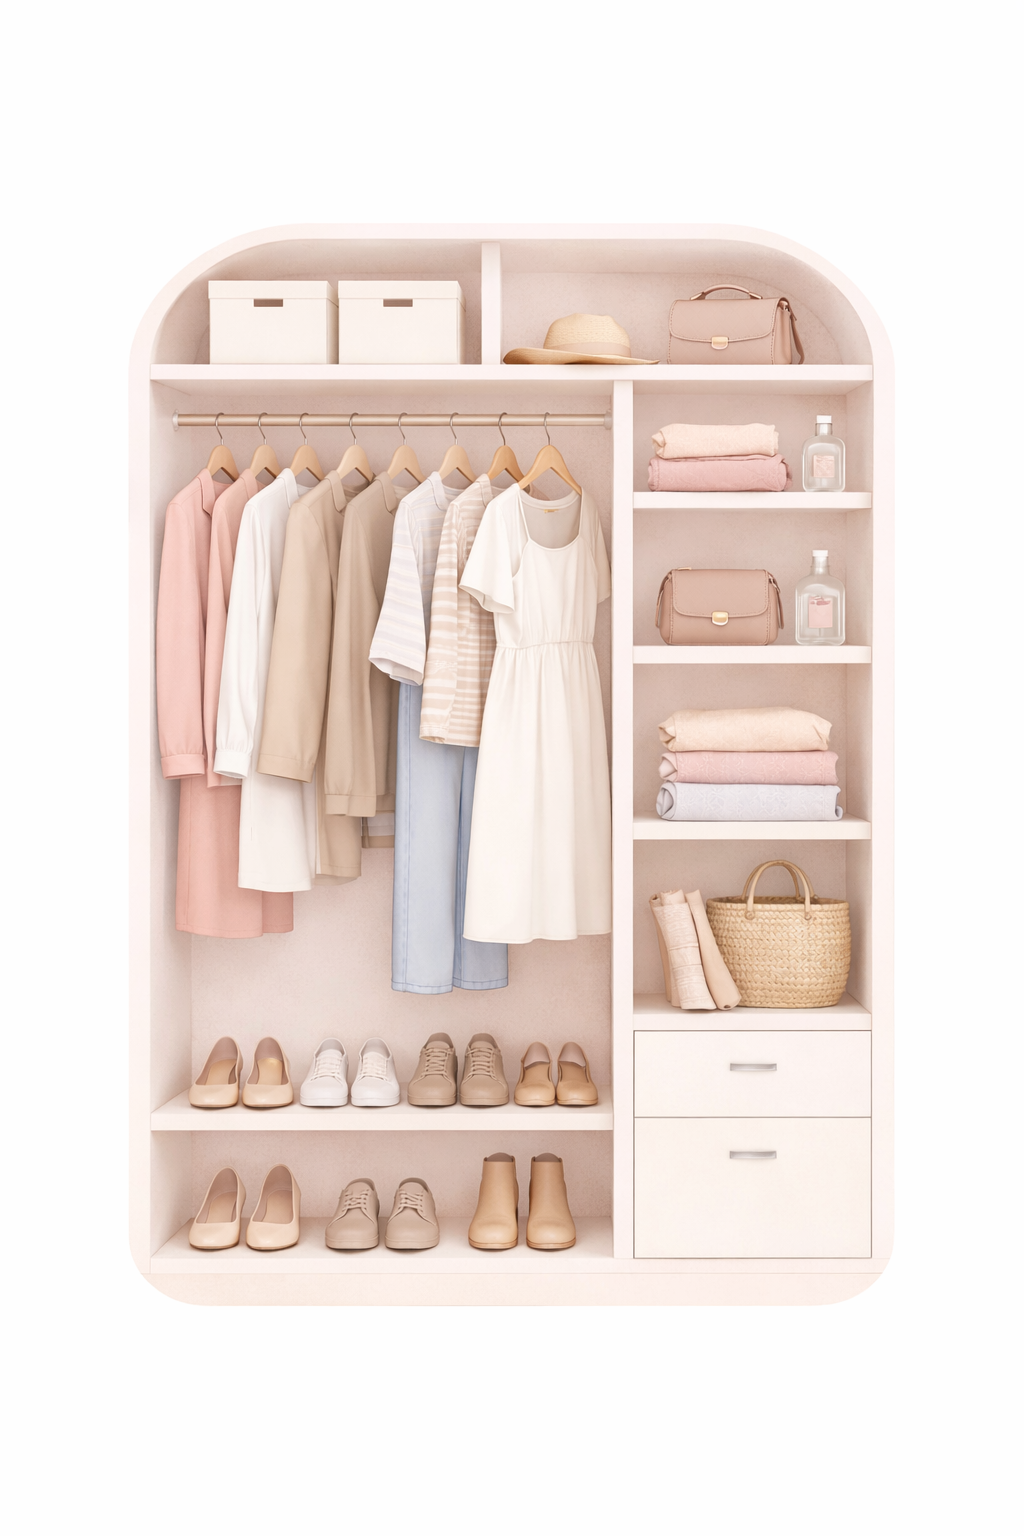
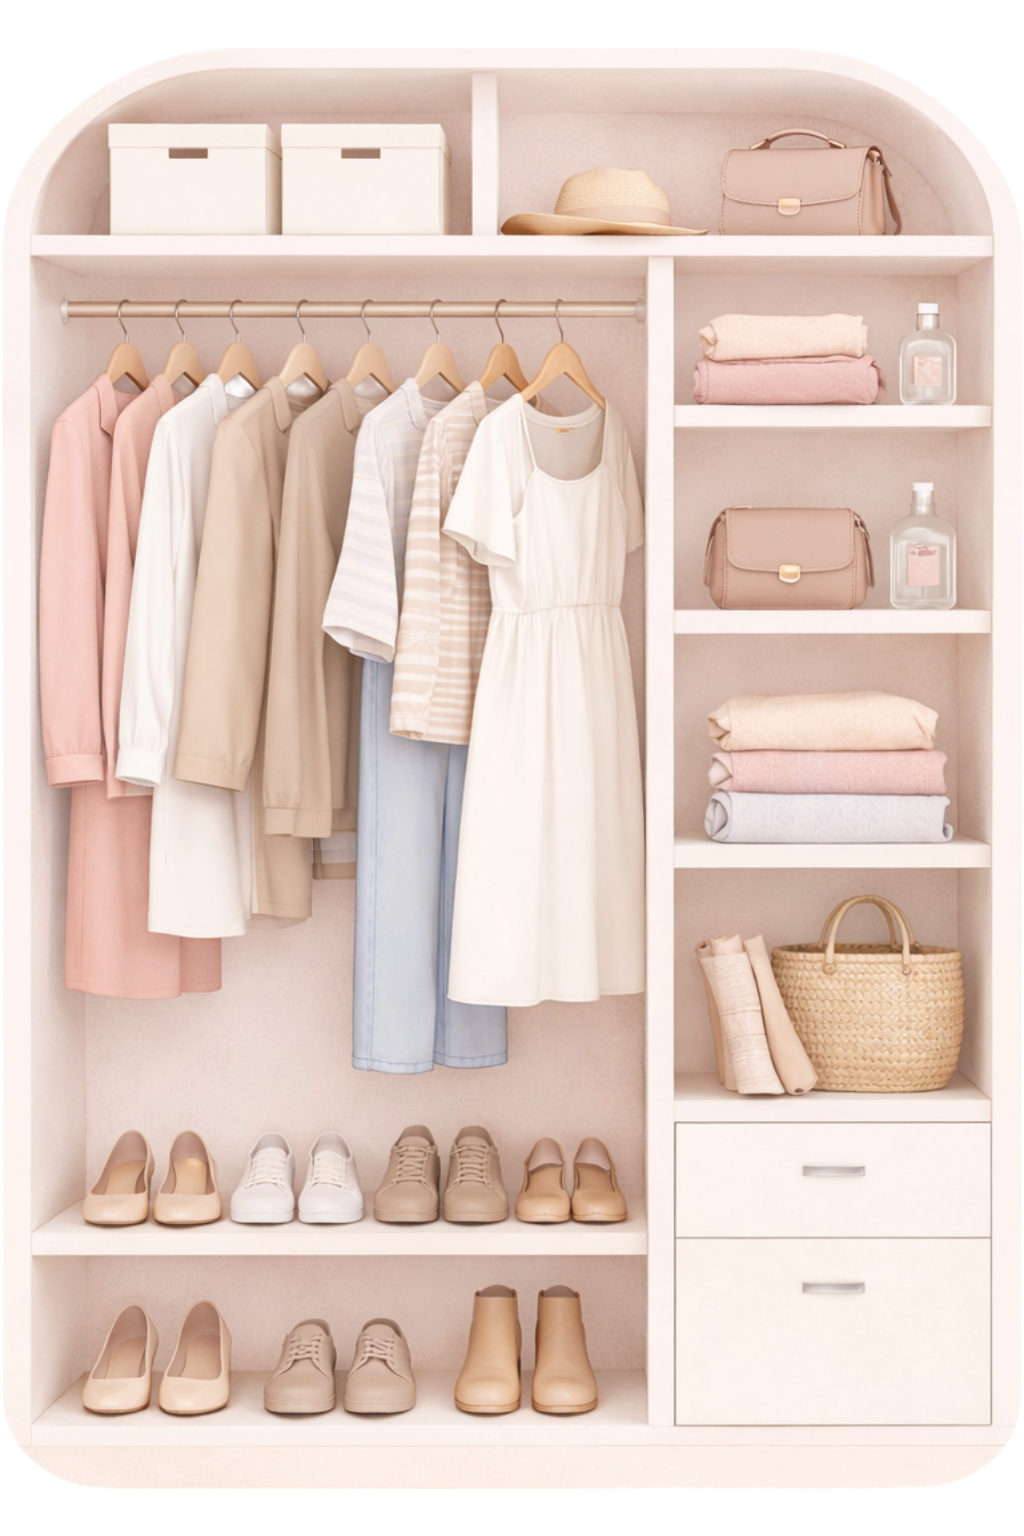
Finish onboarding page

diff --git a/frontend/DigitalWardrobe/app/landing.web.tsx b/frontend/DigitalWardrobe/app/landing.web.tsx
@@ -1,35 +1,48 @@
-import { Text, View, StyleSheet } from 'react-native';
+import { Text, View, StyleSheet, Image, ScrollView } from 'react-native';
 import { Link } from 'expo-router';
 import NavBar from "../components/features/navbar";
 import OmbreBackground from "../components/features/ombrebackground";
 import GridOverlay from "../components/features/gridoverlay";
 import closetImage from '../assets/images/closet_graphic.png';
+import Button from "../components/ui/button";
+import { useRouter } from "expo-router";
 
 const API_URL = process.env.EXPO_PUBLIC_API_URL ?? '';
 
+
 export default function LandingScreen() {
+
+	const router = useRouter();
 	return (
 		<View style={styles.container}>
 			<OmbreBackground />
 			<GridOverlay />
 			<NavBar />
 
+			<ScrollView 
+							contentContainerStyle={styles.mainScrollContent}
+							showsVerticalScrollIndicator={false}>
+
 			<View style={styles.landingContainer}>
 				<View style={styles.content}> 
+					<View style={styles.landingContent}>
+						<Text style={[styles.title, {marginBottom:10}]}>Your Wardrobe.<nav>Styled for your day.</nav></Text>
+						<Text style={[styles.text, {marginVertical:10}]}>Digitize your closet, build outfits, and rediscover what you love.</Text>
+						<View style={{alignItems:'center', margin:40}}><Button title="Get Started" onPress={() => router.replace("/signUp")} /></View>
+					</View>
 
-					<Text style={styles.title}>Welcome to DigitalWardrobe</Text>
-
-					<Link href="/signUp" style={styles.link}>Go to sign up</Link>
-					<Link href="/logIn" style={styles.link}>Go to log in</Link>
-					<Link href="/dashboard" style={styles.link}>Go to Dashboard</Link>
-					<Link href="/privacy" style={styles.link}>Go to our Privacy Policy</Link>
-					<Link href="../onboarding" style={styles.link}>Go to Onboarding</Link>
 				</View>
 				<View style={styles.content}>
-					<img src={closetImage} alt="Graphic of a closet"></img>
+					<Image
+						source={closetImage}
+						style={styles.closetImage}
+						accessibilityLabel="Graphic of a closet"
+						resizeMode="contain"
+					/>
 				</View>
 
 			</View>
+			</ScrollView>
 		</View>
 	);
 }
@@ -38,13 +51,28 @@ const styles = StyleSheet.create({
 	container: {
 		flex: 1,
 		backgroundColor: "#fff",
+		
+	},
+	mainScrollContent:{
+		flexGrow:1,
+		justifyContent:'center',
+		paddingVertical:40,
 	},
 	landingContainer:{
-		flex:1,
 		flexDirection:'row',
-		gap: 10
+		gap: 10,
+		width:'70%',
+		maxWidth: 1100,
+		alignSelf: 'center',
+		justifyContent:'center',
+		alignItems: 'center',
+		marginVertical: 40,
 	},
-
+	landingContent:{
+		width: '100%',
+		maxWidth: 420,
+		alignSelf: 'center',
+	},
 	content: {
 		flex: 1,
 		alignItems: 'center',
@@ -54,15 +82,31 @@ const styles = StyleSheet.create({
 	},
 
 	title: {
-		fontSize: 24,
+		fontSize: 40,
 		fontWeight: '600',
-		textAlign: 'center',
-		color: "#111",
+		textAlign: 'left',
+		fontFamily: 'DM Serif Display',
+		color: "#534047",
 		marginBottom: 8,
+	},
+	text:{
+		// Digitize your closet, build outfits, and rediscover what you love.
+		color: '#4E4E4E',
+		fontSize: 20,
+		fontFamily: 'DM Serif Display',
+		fontWeight: '600',
+		letterSpacing:.5,
+		wordWrap: 'break-word'
 	},
 
 	link: {
 		color: "#2563eb",
 		fontSize: 16,
+	},
+
+	closetImage: {
+		width: 500,
+		height: 661,
+		maxWidth: '100%',
 	}
 });

diff --git a/frontend/DigitalWardrobe/images.d.ts b/frontend/DigitalWardrobe/images.d.ts
@@ -1,0 +1,5 @@
+declare module '*.png' {
+  import type { ImageSourcePropType } from 'react-native';
+  const content: ImageSourcePropType;
+  export default content;
+}
